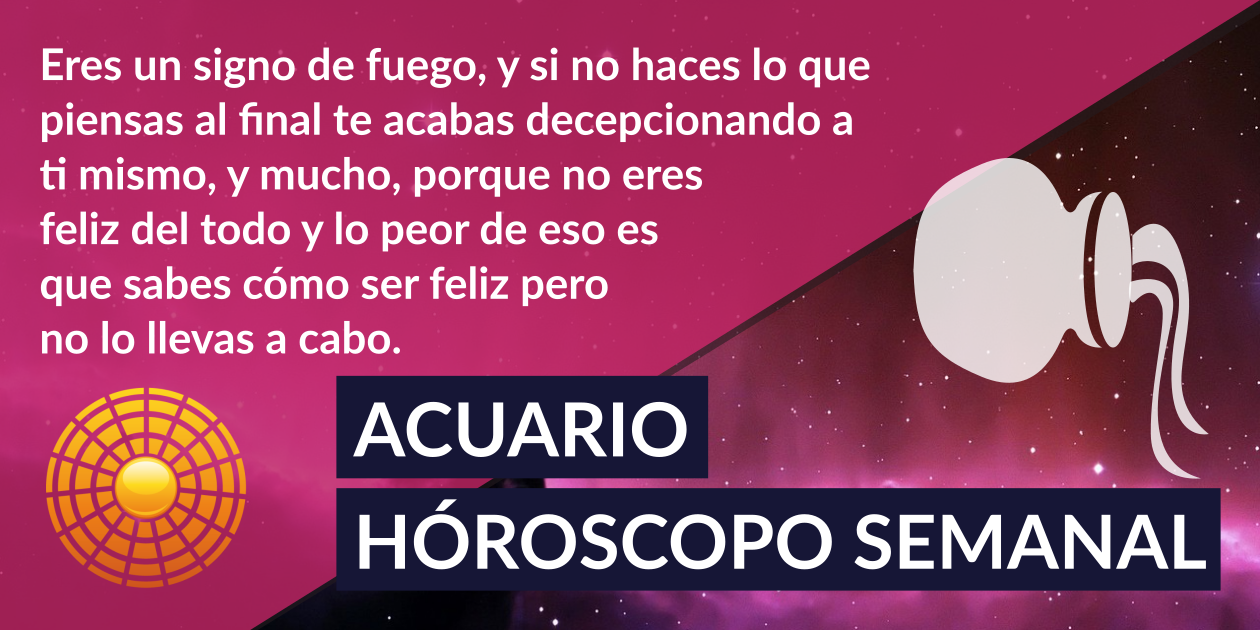
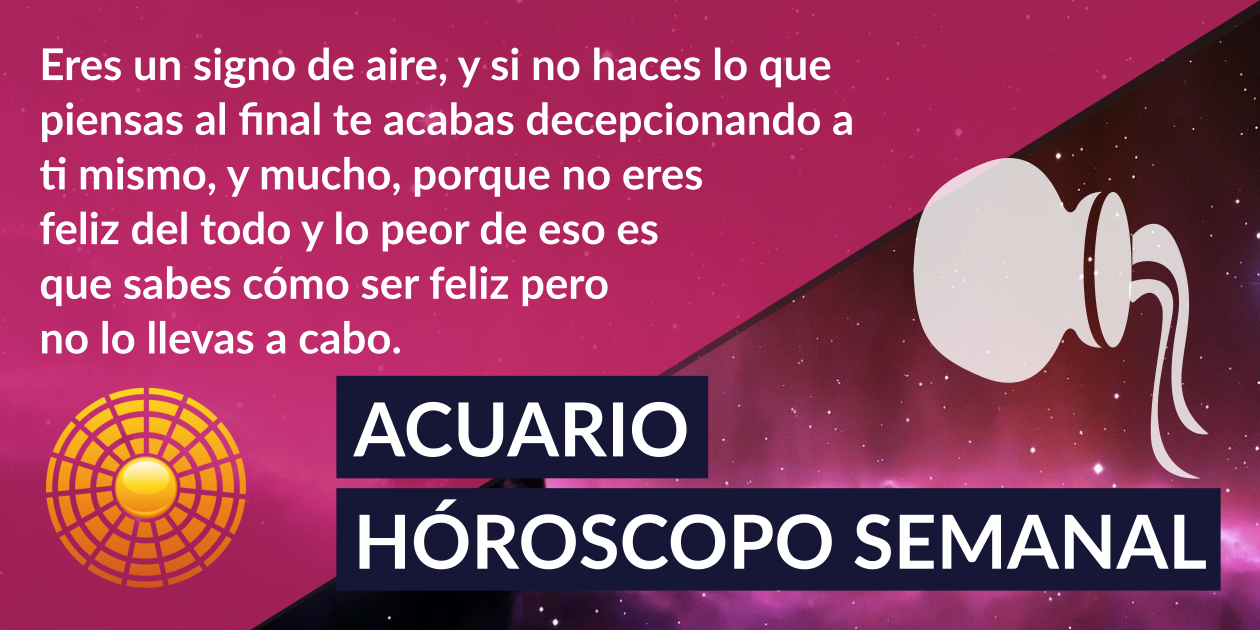
cfg

Changed region(s): [[0.2786, 0.0905, 0.7119, 0.1508]]

diff --git a/semanal/acuario.md b/semanal/acuario.md
@@ -1,7 +1,7 @@
 ---
 layout: horoscopos
 title: acuario 26 de diciembre 2022 al 01 de enero 2023 
-description: Horóscopo semanal acuario 26 de diciembre 2022 al 01 de enero 2023. Eres un signo de fuego, y si no haces lo que piensas al final te acabas decepcionando a ti mismo, y mucho, porque no eres feliz del todo y lo peor de eso es que sabes cómo ser feliz pero no lo llevas a cabo.
+description: Horóscopo semanal acuario 26 de diciembre 2022 al 01 de enero 2023. Eres un signo de aire, y si no haces lo que piensas al final te acabas decepcionando a ti mismo, y mucho, porque no eres feliz del todo y lo peor de eso es que sabes cómo ser feliz pero no lo llevas a cabo.
 permalink: /horoscopo-semanal-gratis/acuario/
 home: FALSE
 keywords: horóscopo semanal, horóscopo de la semana, horóscopo, horóscopo gratis,horóscopos, horóscopo esperanza gracia, horoscopos acuario la semana, horóscopos gratis, Tarot, Astrologia, Zodíaco, acuario, horoscopo gratis, semanal
@@ -17,7 +17,7 @@ sitemap:
 
 
 
-## Eres un signo de fuego, y si no haces lo que piensas al final te acabas decepcionando a ti mismo, y mucho, porque no eres feliz del todo y lo peor de eso es que sabes cómo ser feliz pero no lo llevas a cabo.
+## Eres un signo de aire, y si no haces lo que piensas al final te acabas decepcionando a ti mismo, y mucho, porque no eres feliz del todo y lo peor de eso es que sabes cómo ser feliz pero no lo llevas a cabo.
 
 Tu mente lo está analizando absolutamente todo Acuario, conversaciones del pasado, cosas que se dijeron, palabras que nunca se debieron decir… Como no dejes a un lado todos esos pensamientos que ya están en el pasado, acabarás viviendo en el pasado, otra vez Acuario… No… Vas a arruinar todo antes de que ocurra, vas a estar en otro lugar cuando debes estar aquí, en el presente, vas a perderte oportunidades esta semana por eso. Cambia como sea. Y agarra todo lo que venga con mucha fuerza. No pienses si lo que estas haciendo está mal o bien, no pienses en el daño que quizás puedas hacer a algunos o en la alegría que les darás a otros. Piensa en ti un poquito. Todo el mundo jamás estará contento con las decisiones que tomes, por eso mismo, deja de pensar un poco en los demás y dirígete hacia donde de verdad te sientas bien. Fuera las expectativas Acuario, fuera el creer que va a ocurrir algo, si tiene que ser será, pero no te comas la cabeza y no le des más vueltas a todo. La ansiedad podrá contigo en algún momento de esta semana Acuario, pero ya has pasado por eso, no dejes que se apodere de tu mente, la ansiedad te hace empujar a personas fuera de tu vida cuando en realidad quieres que se queden, y de la misma manera te hace volverte loco por otras que lo que deberían hacer es marcharse, y de una vez.
 Si tienes algo importante que firmar, lee los términos y condiciones con tal de entender lo que se te está ofrecido. La mezcla de energías de esta semana insinúa que puede que sientas tanto enamoramiento hacia una idea que se te olvide notar aspectos prácticos que pudieran ser vitales. Te irá mejor si pides una segunda opinión o investigas más al respecto. Mercurio inicia su fase retrógrada en tu sector profesional el jueves, pudiendo traer retrasos. Sin embargo, puede que éstos funcionen a tu favor.
